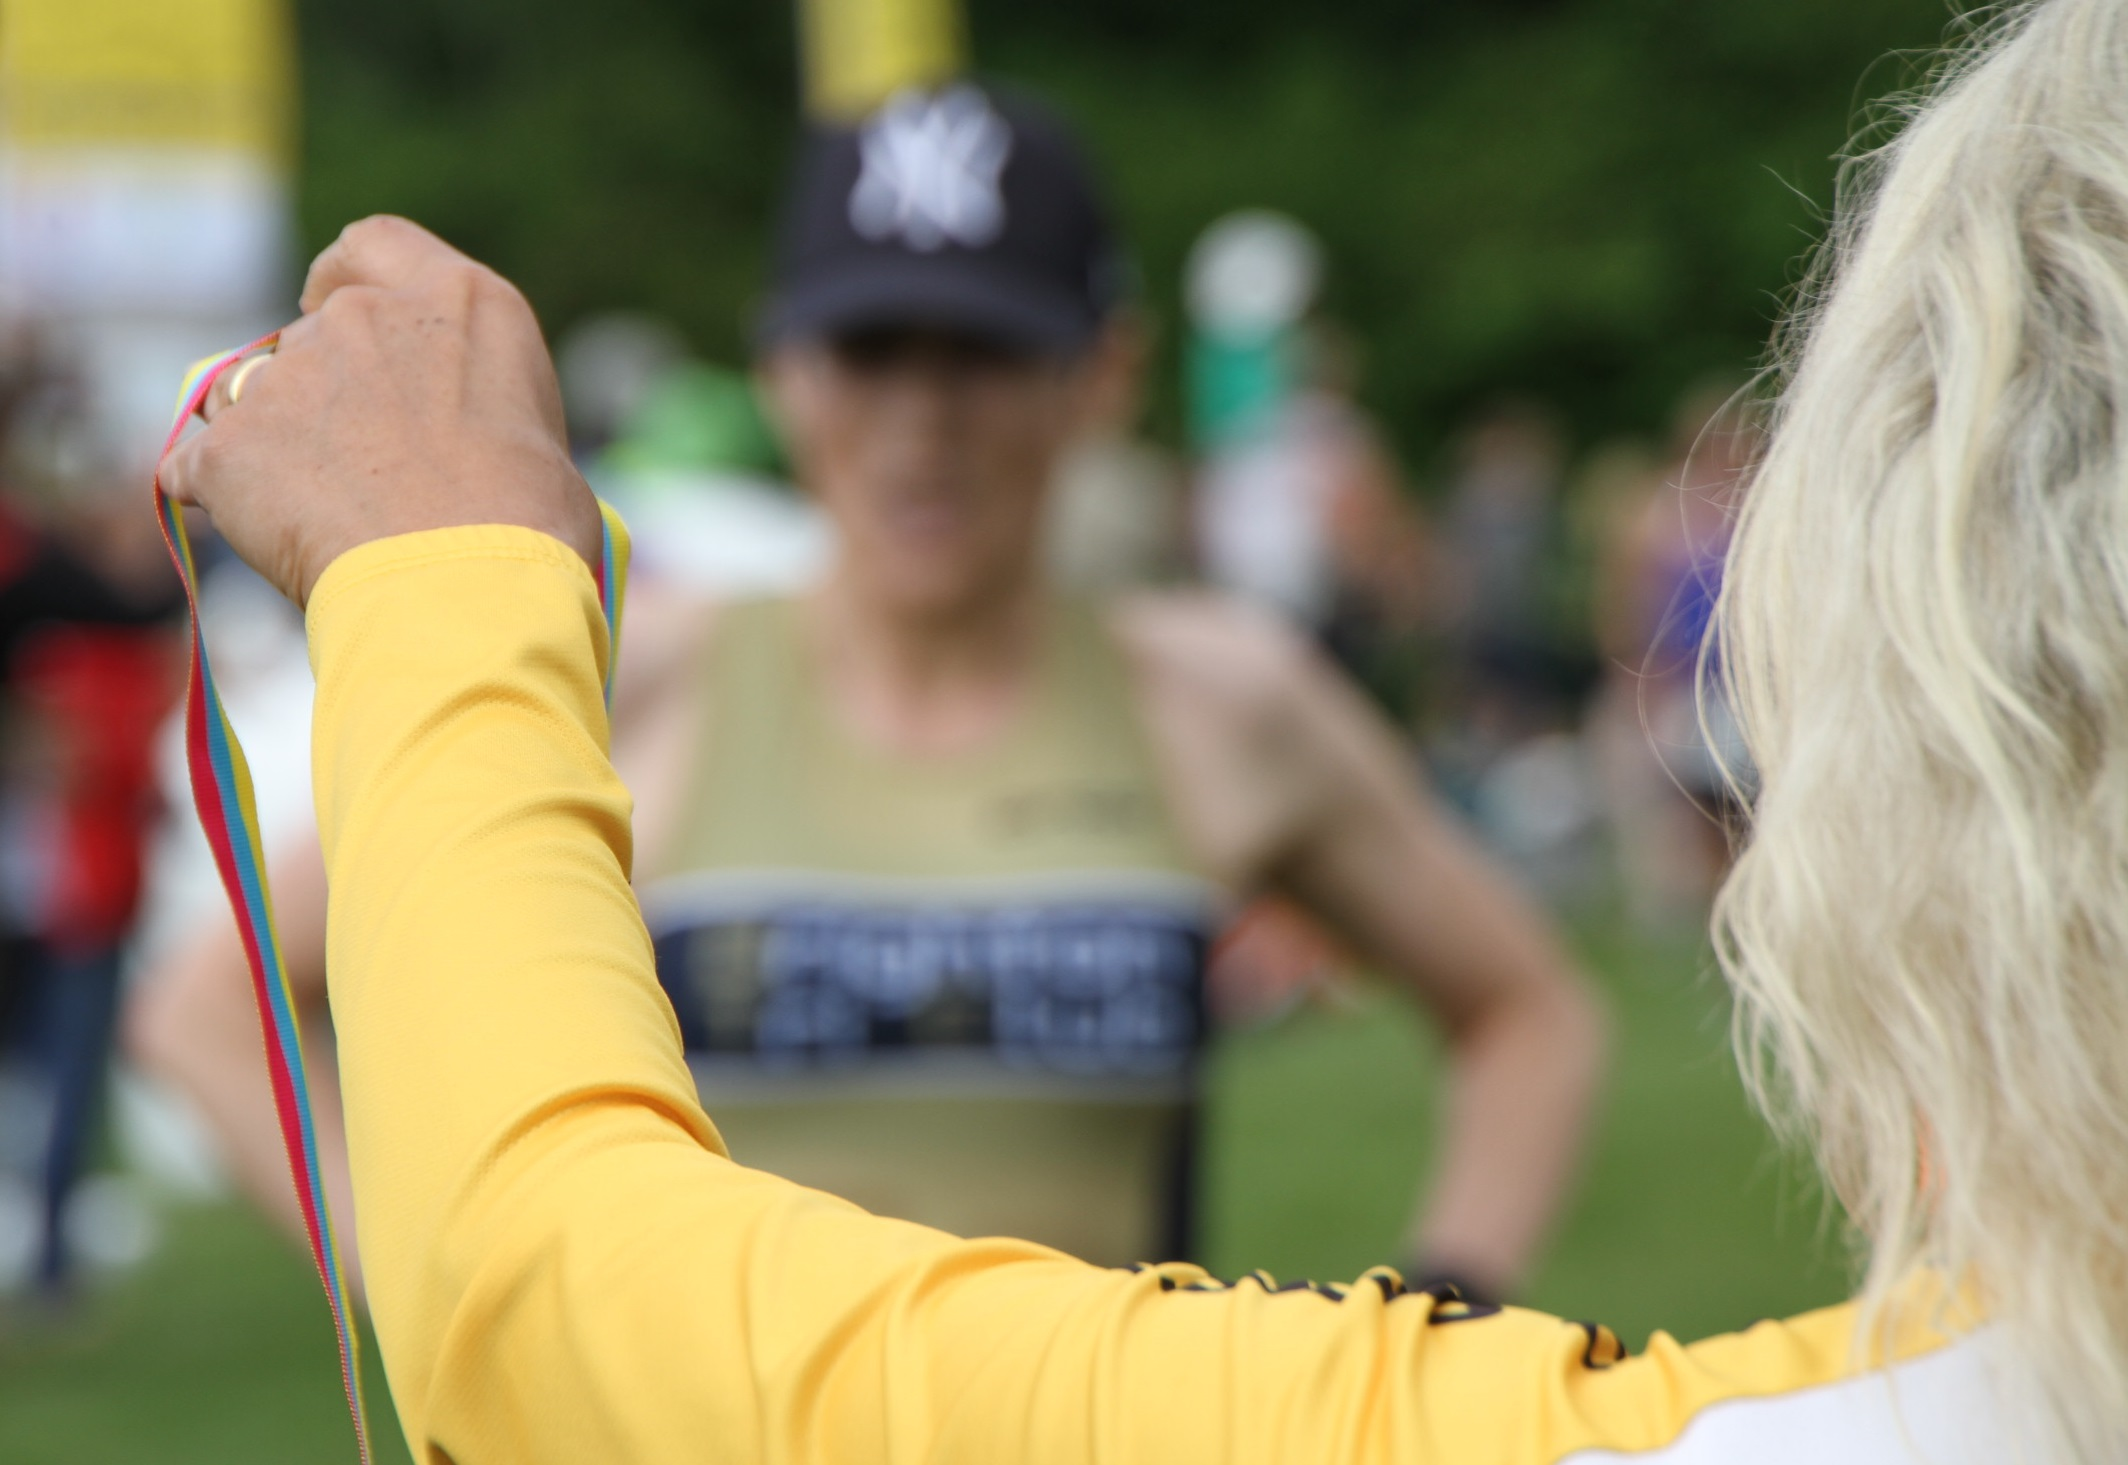
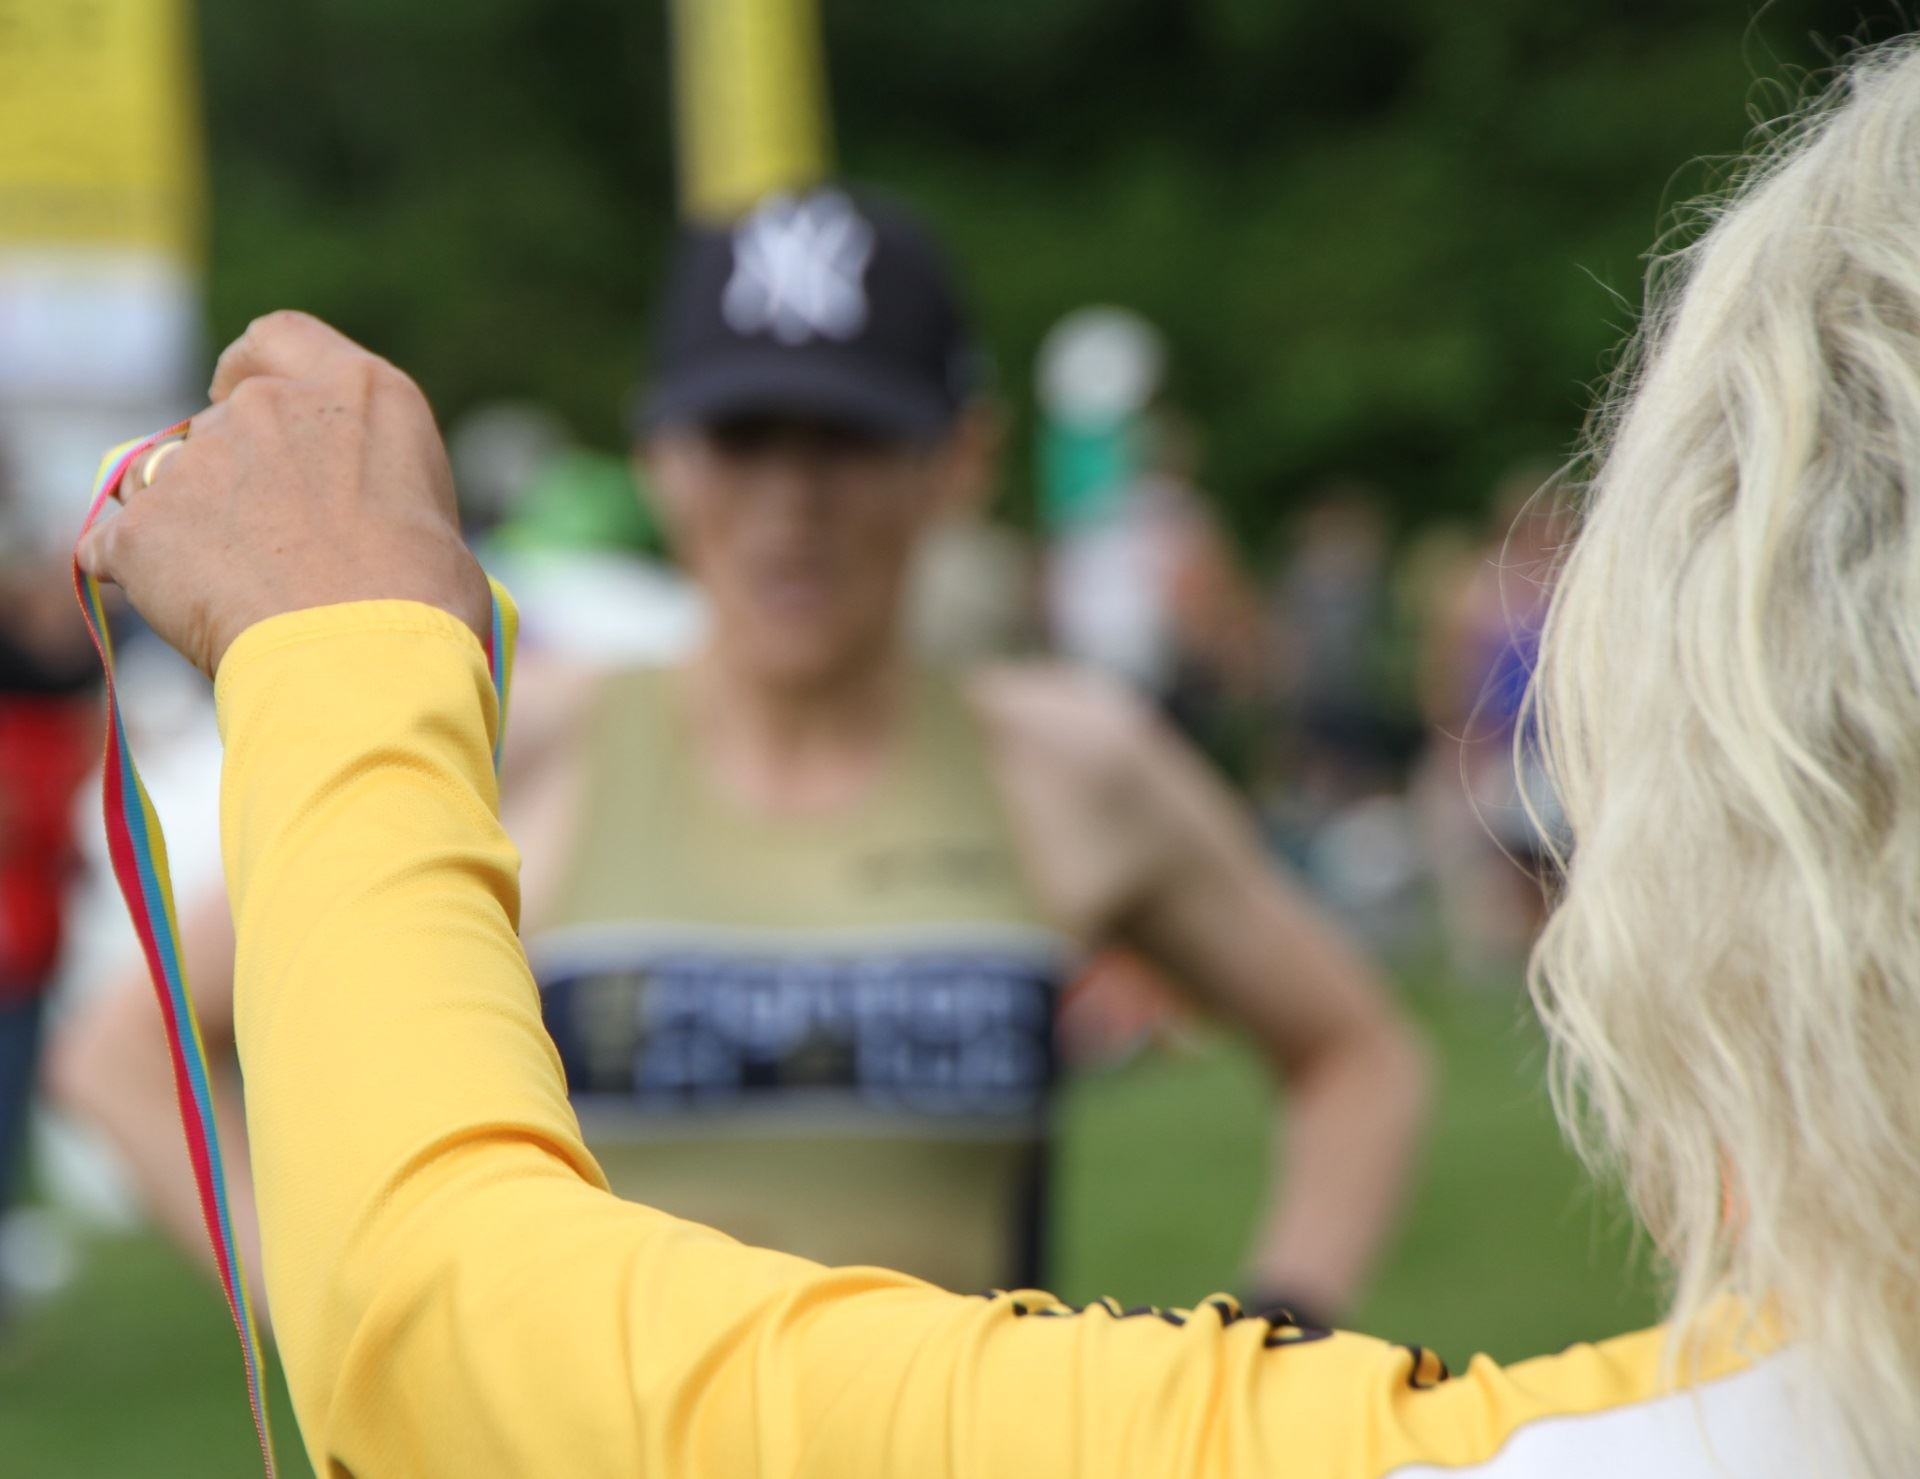
Compressed background images.

diff --git a/design/frontend/assets/css/main.css b/design/frontend/assets/css/main.css
@@ -1583,7 +1583,7 @@ h1 {
    ========================================================================== */
 
    .entry-main-content {
-    background: url(../img/background/entry-tri-bg.jpg) center;
+    background: url(../img/background/entry2-tri-bg.jpg) center;
     background-size: cover;
   }
 
@@ -1857,7 +1857,7 @@ h1 {
    Contact Forem 
    ========================================================================== */
 .contact-main-content {
-  background: url(../img/background/contact-tri-bg.jpg) center;
+  background: url(../img/background/contact2-tri-bg.jpg) center;
   background-size: cover;
 }
 
